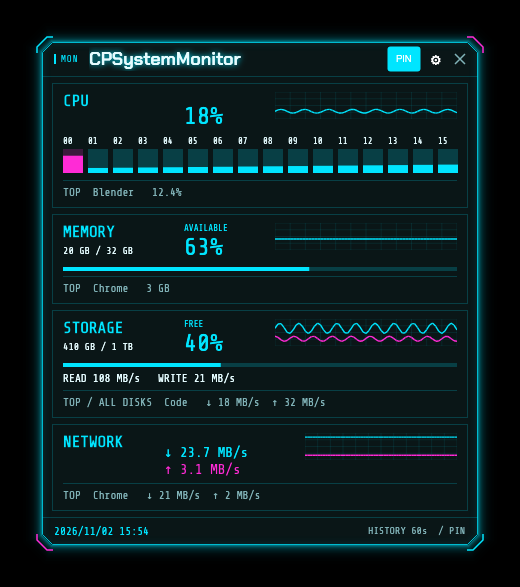
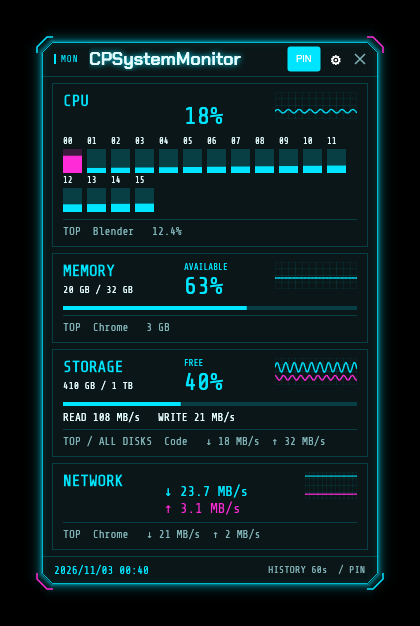
Fit compact monitor to twelve cores and add release workflow

Changed region(s): [[0.0619, 0.0307, 0.9286, 0.9506]]

diff --git a/CPSystemMonitor/src/CPSystemMonitor.Desktop.Tests/MonitorUiTests.cs b/CPSystemMonitor/src/CPSystemMonitor.Desktop.Tests/MonitorUiTests.cs
@@ -78,6 +78,27 @@ public sealed class MonitorUiTests
         }
         finally { w.Close(); hub.Flush(); if (Directory.Exists(root)) Directory.Delete(root, true); }
     }
+    [AvaloniaFact] public void Compact_fits_twelve_cores_and_wraps_additional_cores_without_clipping()
+    {
+        var (hub, root) = Hub();
+        hub.Update(s => s.Monitor.Mode = MonitorMode.Compact, SettingsChange.BoardLayout);
+        var w = new MonitorWindow(hub, new SampleHistory()) { AllowClose = true }; w.Show();
+        try
+        {
+            Assert.Equal(340d, w.BodyWidth);
+            foreach (int count in new[] { 12, 13, 24, 32 })
+            {
+                w.Update(Sample(DateTimeOffset.Now) with { Cores = Enumerable.Repeat(25d, count).ToArray() });
+                Dispatcher.UIThread.RunJobs();
+                var cores = w.GetVisualDescendants().OfType<Avalonia.Controls.Primitives.UniformGrid>().Single(g => g.IsVisible);
+                Assert.Equal(count, cores.Children.Count);
+                Assert.Equal(cores.Children[0].Bounds.Y, cores.Children[11].Bounds.Y);
+                if (count > 12) Assert.True(cores.Children[12].Bounds.Y > cores.Children[11].Bounds.Y);
+                Assert.All(cores.Children, core => Assert.True(core.Bounds.Right <= cores.Bounds.Width + .1));
+            }
+        }
+        finally { w.Close(); hub.Flush(); if (Directory.Exists(root)) Directory.Delete(root, true); }
+    }
     [AvaloniaFact] public void Capture_standard_compact_and_settings()
     {
         var output=Environment.GetEnvironmentVariable("CPSM_CAPTURE_DIR"); if(string.IsNullOrEmpty(output))return;

diff --git a/CPSystemMonitor/src/CPSystemMonitor.Desktop/Monitoring/MetricCard.cs b/CPSystemMonitor/src/CPSystemMonitor.Desktop/Monitoring/MetricCard.cs
@@ -46,7 +46,7 @@ internal sealed class MetricCard : Border
         _rates = Text("", compact ? 11 : 13);
         _rates.IsVisible = section == MonitorSection.Storage;
         _content.Children.Add(_rates);
-        _cores = new UniformGrid { Columns = compact ? 16 : 4, IsVisible = section == MonitorSection.Cpu && perCore };
+        _cores = new UniformGrid { Columns = compact ? 12 : 4, IsVisible = section == MonitorSection.Cpu && perCore };
         _content.Children.Add(_cores);
         _top = Text("", compact ? 11 : 12, "FlTextMuted");
         _top.TextTrimming = TextTrimming.CharacterEllipsis;

diff --git a/CPSystemMonitor/src/CPSystemMonitor.Desktop/MonitorWindow.cs b/CPSystemMonitor/src/CPSystemMonitor.Desktop/MonitorWindow.cs
@@ -74,7 +74,7 @@ internal sealed class MonitorWindow : ChromeWindow
     {
         var settings = _hub.Current; var monitor = settings.Monitor;
         bool compact = monitor.Mode == MonitorMode.Compact;
-        BodyWidth = compact ? 440 : 820;
+        BodyWidth = compact ? 340 : 820;
         _pin.IsChecked = monitor.AlwaysOnTop;
         Topmost = monitor.AlwaysOnTop; Opacity = settings.Appearance.Opacity / 100d;
         var screen = Screens.ScreenFromPoint(Position) ?? Screens.Primary;

diff --git a/CPSystemMonitor/spec/SPEC.md b/CPSystemMonitor/spec/SPEC.md
@@ -2,9 +2,9 @@
 
 ## 表示
 
-四項目はCPU、メモリ、ストレージ、ネットワークの順。標準820 DIP、コンパクト440 DIPの面幅。画面の作業領域を超える場合は中身をスクロールできる。ウィンドウはシリーズ共通の枠・配色・フォント・グリッド・走査線・常時演出を使用する。
+四項目はCPU、メモリ、ストレージ、ネットワークの順。標準820 DIP、コンパクト340 DIPの面幅。画面の作業領域を超える場合は中身をスクロールできる。ウィンドウはシリーズ共通の枠・配色・フォント・グリッド・走査線・常時演出を使用する。
 
-CPUは全体使用率と履歴、論理CPUのメーターを表示する。標準のコアメーターは横4列、コンパクトは横一列の小さい縦棒。コア数に応じて生成し、物理コアと誤記しない。CPU欄のTOTAL USAGE、CPU数、クロックは表示しない。
+CPUは全体使用率と履歴、論理CPUのメーターを表示する。標準のコアメーターは横4列、コンパクトは横12列の小さい縦棒とし、13コア以上は折り返して全コアを表示する。コア数に応じて生成し、物理コアと誤記しない。CPU欄のTOTAL USAGE、CPU数、クロックは表示しない。
 
 メモリは利用可能率、ストレージは空き率。容量の aa/bb は見出しの直下で、末尾のAVAILABLE/FREEを付けない。ネットワークは下矢印・上矢印と速度のみで、RECEIVE/SENDは付けない。RAMそのものの読み書き帯域は扱わない。
 

diff --git a/CPSystemMonitor/README.md b/CPSystemMonitor/README.md
@@ -5,7 +5,7 @@
 CPToolsシリーズのWindows・macOS向け常駐システムモニターです。CPU・メモリ・ストレージ・ネットワークを、シリーズ共通の配色とHUD枠で表示します。
 
 - 標準／コンパクト表示。右クリックで切り替え。
-- CPU全体と論理CPU別の負荷。標準は横4列で、CPU数に合わせて段数を変更。
+- CPU全体と論理CPU別の負荷。標準は横4列、コンパクトは幅340 DIP・横12列で、CPU数に合わせて段数を変更。
 - 利用可能メモリの割合と容量、選択したボリュームの空き割合と容量。
 - ディスク読み書き速度、稼働中インターフェースの送受信速度。
 - 取得可能なプロセスをアプリ単位にまとめた最大負荷対象。CPUは全体を100%として計算。
@@ -50,3 +50,7 @@ CPSM_CAPTURE_DIR=/absolute/path/to/captures dotnet test CPSystemMonitor/src/CPSy
 ```
 
 詳細は [仕様](spec/SPEC.md)。GPL-3.0-only、第三者ライセンスは [THIRD-PARTY-NOTICES.txt](THIRD-PARTY-NOTICES.txt)。
+
+## リリース
+
+`cpsystemmonitor-v<Version>` の注釈付きタグで `.github/workflows/release-systemmonitor.yml` を実行します。Windows・macOSのテスト、実データ取得、ZIP作成がすべて成功してからReleaseを作成します。タグ注釈に `Release-Publish: true` がある場合は正式公開し、それ以外は下書きにします。手動実行はArtifact作成のみです。macOSは既存シリーズと同じad-hoc署名です。
